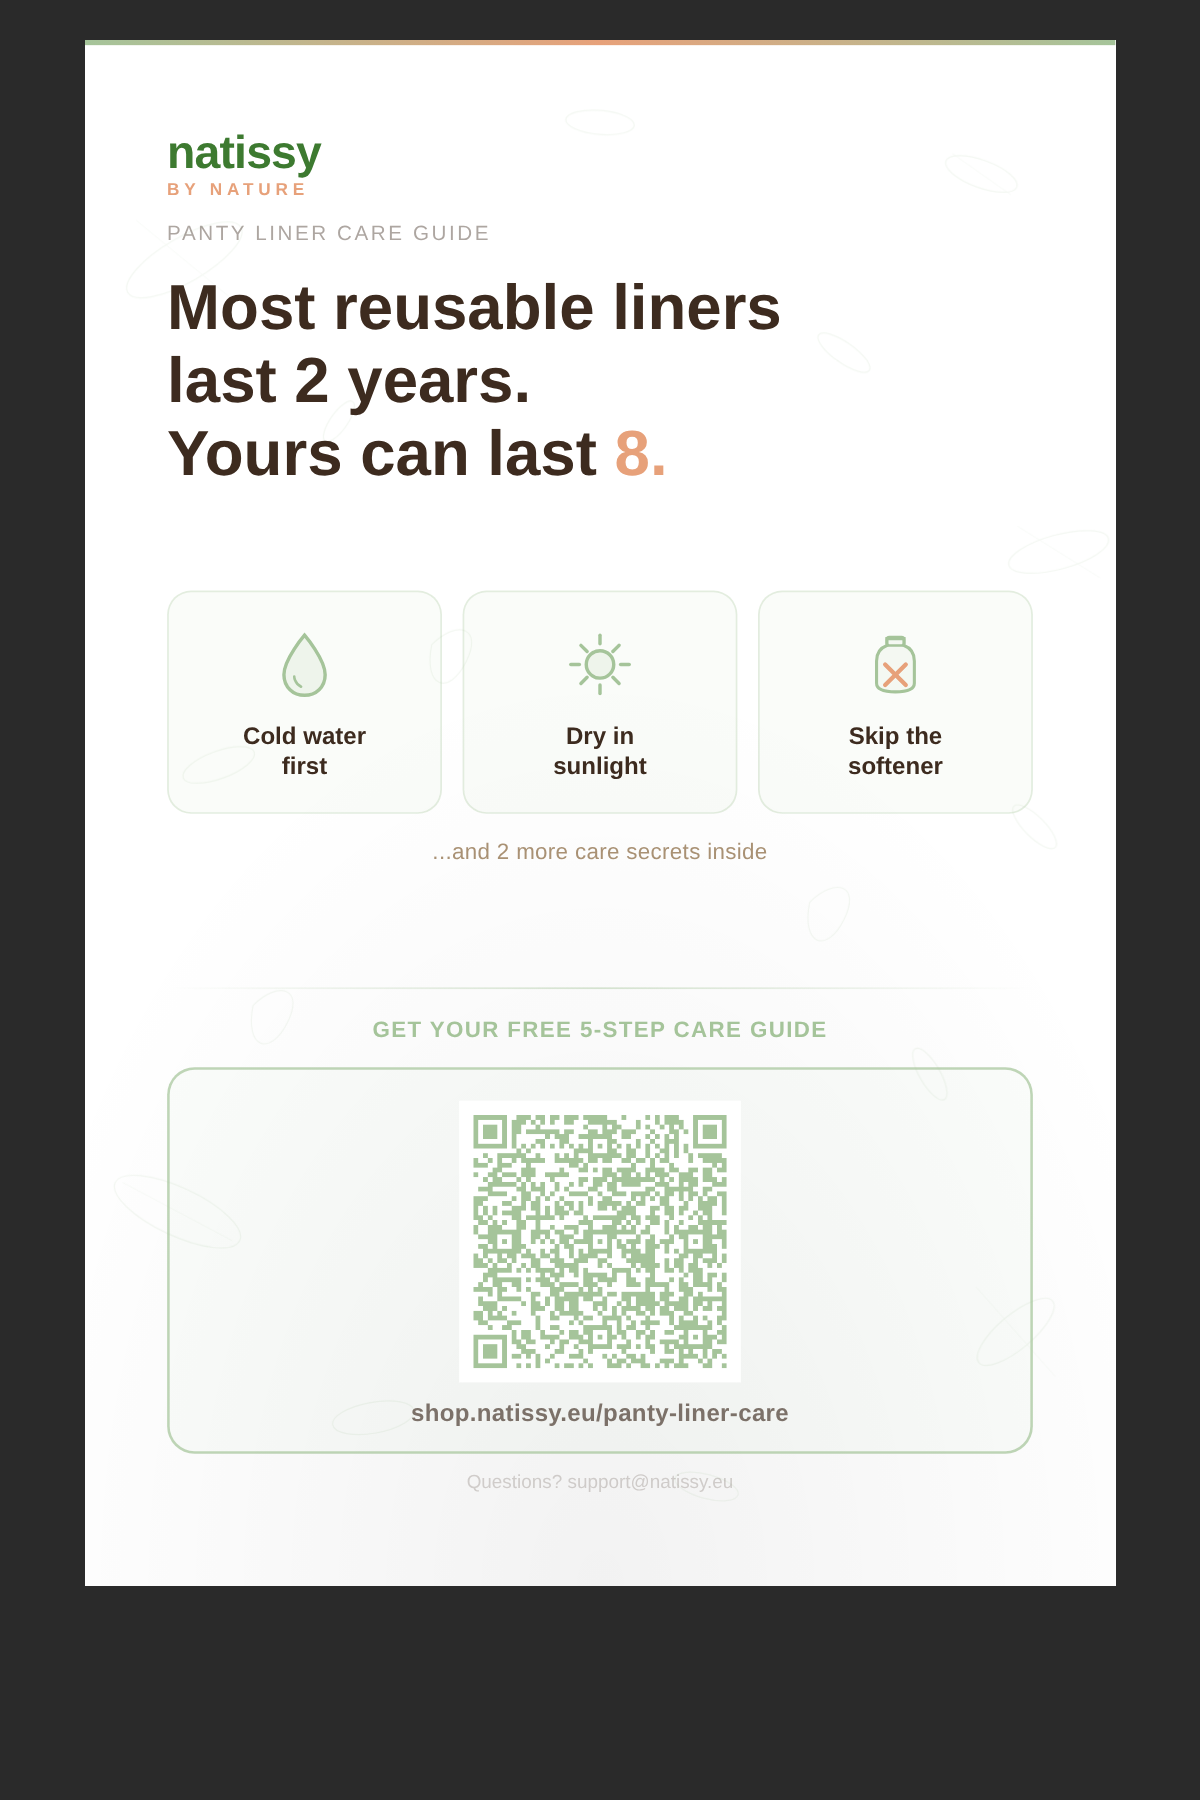
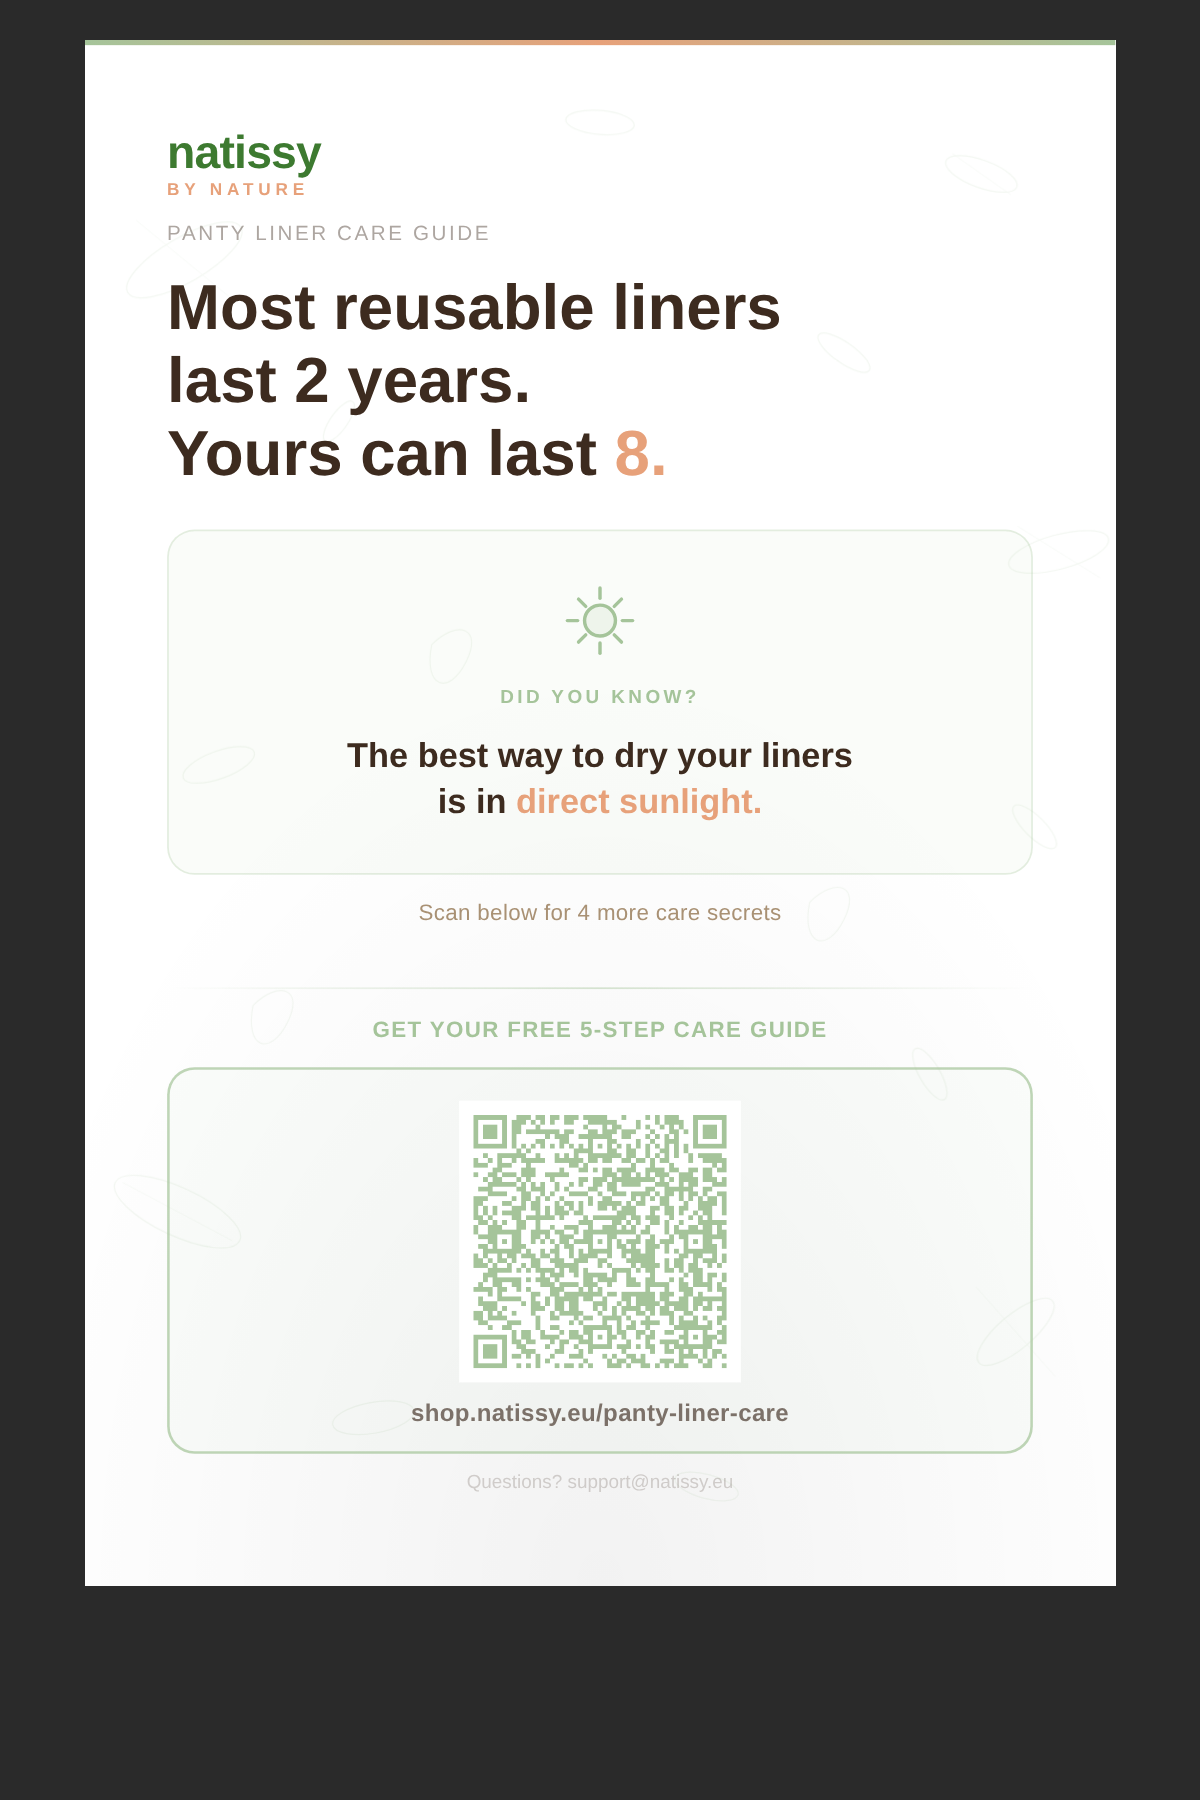
Replace 3 care cards with single sunlight teaser fact card

Changed region(s): [[0.2158, 0.3111, 0.8017, 0.5289], [0.6167, 0.4978, 0.6475, 0.5289], [0.2467, 0.3422, 0.2775, 0.3733]]

diff --git a/natissy-insert.html b/natissy-insert.html
@@ -88,29 +88,31 @@
   }
   .hook .accent { color: #E7A17A; }
   .spacer { flex: 1; min-height: 20px; }
-  .cards-row {
-    display: flex;
-    gap: 12px;
-    justify-content: space-between;
-  }
-  .card {
-    flex: 1;
+  .fact-card {
     background: rgba(165,196,154,0.06);
     border: 1px solid rgba(165,196,154,0.28);
-    border-radius: 14px;
-    padding: 20px 10px 18px;
+    border-radius: 16px;
+    padding: 28px 32px;
     display: flex;
     flex-direction: column;
     align-items: center;
-    gap: 11px;
+    gap: 14px;
     text-align: center;
   }
-  .card-label {
-    font-size: 14px;
+  .fact-eyebrow {
+    font-size: 11px;
+    font-weight: 700;
+    color: #A5C49A;
+    letter-spacing: 2px;
+    text-transform: uppercase;
+  }
+  .fact-text {
+    font-size: 20px;
     font-weight: 700;
     color: #3D2B1F;
-    line-height: 1.25;
+    line-height: 1.35;
   }
+  .fact-text .accent { color: #E7A17A; }
   .more-hint {
     text-align: center;
     font-size: 13px;
@@ -218,44 +220,24 @@
 
       <div class="spacer"></div>
 
-      <!-- MIDDLE: 3 teaser cards -->
+      <!-- MIDDLE: single teaser fact -->
       <div>
-        <div class="cards-row">
-          <!-- Cold water -->
-          <div class="card">
-            <svg width="44" height="44" viewBox="0 0 44 44" fill="none" xmlns="http://www.w3.org/2000/svg">
-              <path d="M22 5 C22 5 10 19 10 28 C10 35.2 15.4 40 22 40 C28.6 40 34 35.2 34 28 C34 19 22 5 22 5Z" stroke="#A5C49A" stroke-width="2" fill="#A5C49A" fill-opacity="0.15"/>
-              <path d="M16 29 C16 29 16 33 20 35" stroke="#A5C49A" stroke-width="1.5" stroke-linecap="round"/>
-            </svg>
-            <div class="card-label">Cold water<br>first</div>
-          </div>
-          <!-- Sunlight -->
-          <div class="card">
-            <svg width="44" height="44" viewBox="0 0 44 44" fill="none" xmlns="http://www.w3.org/2000/svg">
-              <circle cx="22" cy="22" r="8" stroke="#A5C49A" stroke-width="2" fill="#A5C49A" fill-opacity="0.15"/>
-              <line x1="22" y1="5" x2="22" y2="10" stroke="#A5C49A" stroke-width="2" stroke-linecap="round"/>
-              <line x1="22" y1="34" x2="22" y2="39" stroke="#A5C49A" stroke-width="2" stroke-linecap="round"/>
-              <line x1="5" y1="22" x2="10" y2="22" stroke="#A5C49A" stroke-width="2" stroke-linecap="round"/>
-              <line x1="34" y1="22" x2="39" y2="22" stroke="#A5C49A" stroke-width="2" stroke-linecap="round"/>
-              <line x1="10.9" y1="10.9" x2="14.5" y2="14.5" stroke="#A5C49A" stroke-width="2" stroke-linecap="round"/>
-              <line x1="29.5" y1="29.5" x2="33.1" y2="33.1" stroke="#A5C49A" stroke-width="2" stroke-linecap="round"/>
-              <line x1="33.1" y1="10.9" x2="29.5" y2="14.5" stroke="#A5C49A" stroke-width="2" stroke-linecap="round"/>
-              <line x1="14.5" y1="29.5" x2="10.9" y2="33.1" stroke="#A5C49A" stroke-width="2" stroke-linecap="round"/>
-            </svg>
-            <div class="card-label">Dry in<br>sunlight</div>
-          </div>
-          <!-- No softener -->
-          <div class="card">
-            <svg width="44" height="44" viewBox="0 0 44 44" fill="none" xmlns="http://www.w3.org/2000/svg">
-              <path d="M17 7 L17 11 C13 12.5 11 16 11 20 L11 33 C11 36 13.5 38 22 38 C30.5 38 33 36 33 33 L33 20 C33 16 31 12.5 27 11 L27 7 Z" stroke="#A5C49A" stroke-width="1.8" fill="#A5C49A" fill-opacity="0.08"/>
-              <rect x="17" y="6" width="10" height="5" rx="1.5" stroke="#A5C49A" stroke-width="1.5"/>
-              <line x1="16" y1="22" x2="28" y2="34" stroke="#E7A17A" stroke-width="2.5" stroke-linecap="round"/>
-              <line x1="28" y1="22" x2="16" y2="34" stroke="#E7A17A" stroke-width="2.5" stroke-linecap="round"/>
-            </svg>
-            <div class="card-label">Skip the<br>softener</div>
-          </div>
+        <div class="fact-card">
+          <svg width="48" height="48" viewBox="0 0 48 48" fill="none" xmlns="http://www.w3.org/2000/svg">
+            <circle cx="24" cy="24" r="9" stroke="#A5C49A" stroke-width="2" fill="#A5C49A" fill-opacity="0.15"/>
+            <line x1="24" y1="5" x2="24" y2="11" stroke="#A5C49A" stroke-width="2" stroke-linecap="round"/>
+            <line x1="24" y1="37" x2="24" y2="43" stroke="#A5C49A" stroke-width="2" stroke-linecap="round"/>
+            <line x1="5" y1="24" x2="11" y2="24" stroke="#A5C49A" stroke-width="2" stroke-linecap="round"/>
+            <line x1="37" y1="24" x2="43" y2="24" stroke="#A5C49A" stroke-width="2" stroke-linecap="round"/>
+            <line x1="11.5" y1="11.5" x2="15.7" y2="15.7" stroke="#A5C49A" stroke-width="2" stroke-linecap="round"/>
+            <line x1="32.3" y1="32.3" x2="36.5" y2="36.5" stroke="#A5C49A" stroke-width="2" stroke-linecap="round"/>
+            <line x1="36.5" y1="11.5" x2="32.3" y2="15.7" stroke="#A5C49A" stroke-width="2" stroke-linecap="round"/>
+            <line x1="15.7" y1="32.3" x2="11.5" y2="36.5" stroke="#A5C49A" stroke-width="2" stroke-linecap="round"/>
+          </svg>
+          <div class="fact-eyebrow">Did you know?</div>
+          <div class="fact-text">The best way to dry your liners<br>is in <span class="accent">direct sunlight.</span></div>
         </div>
-        <p class="more-hint">...and 2 more care secrets inside</p>
+        <p class="more-hint">Scan below for 4 more care secrets</p>
       </div>
 
       <div class="spacer"></div>
